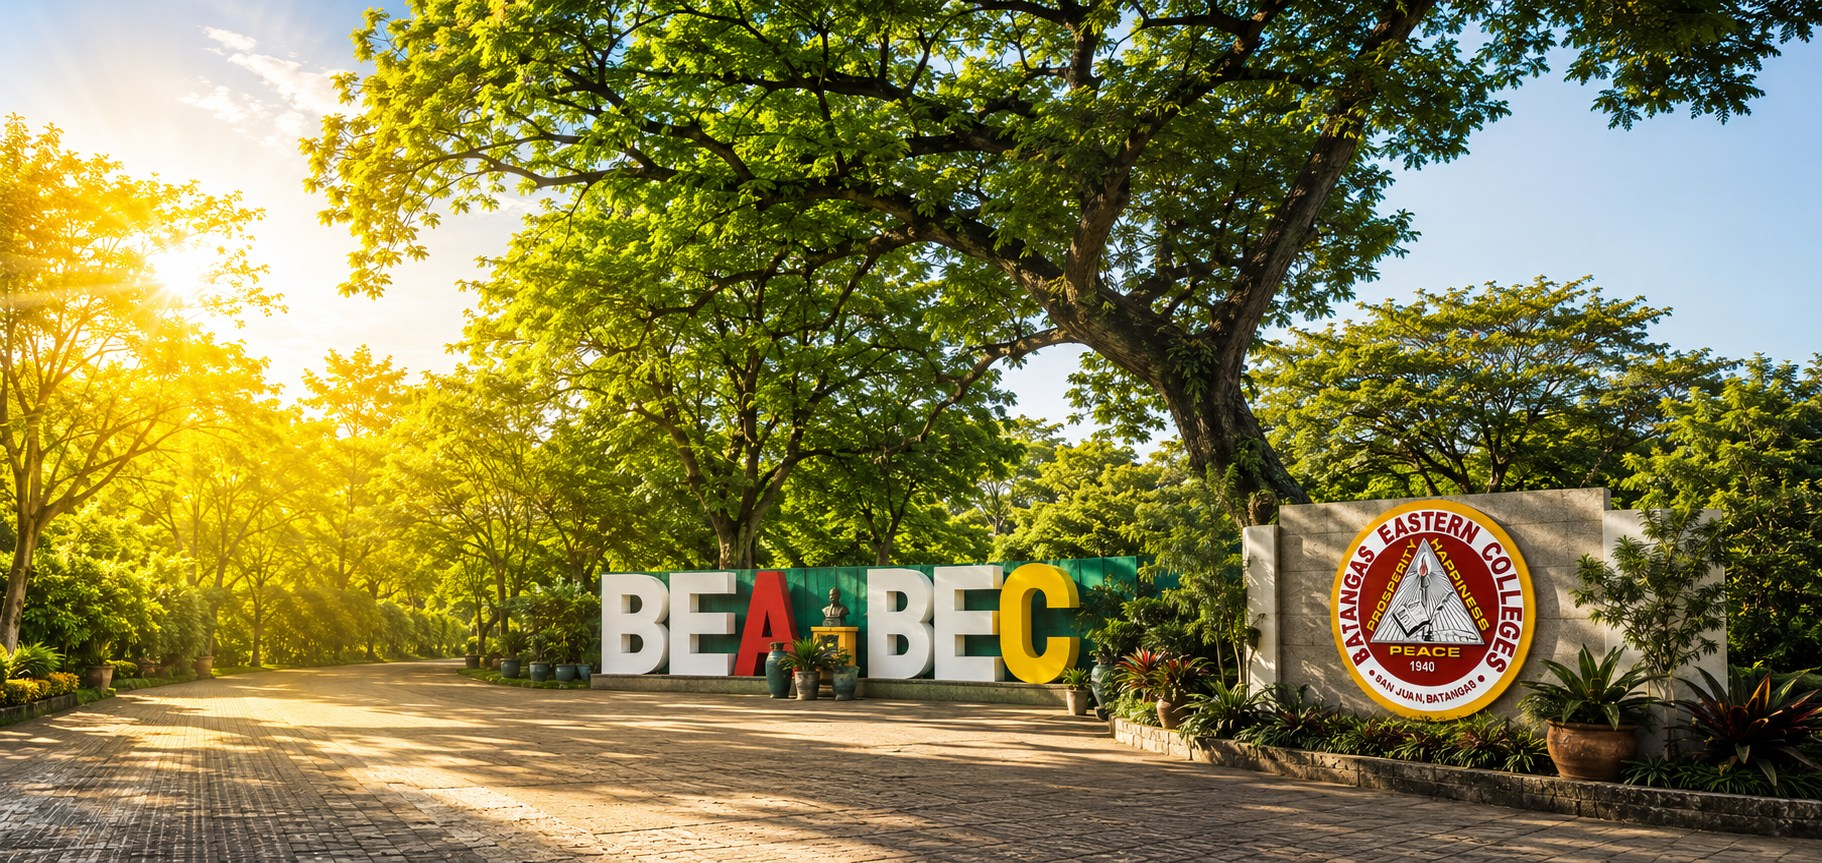
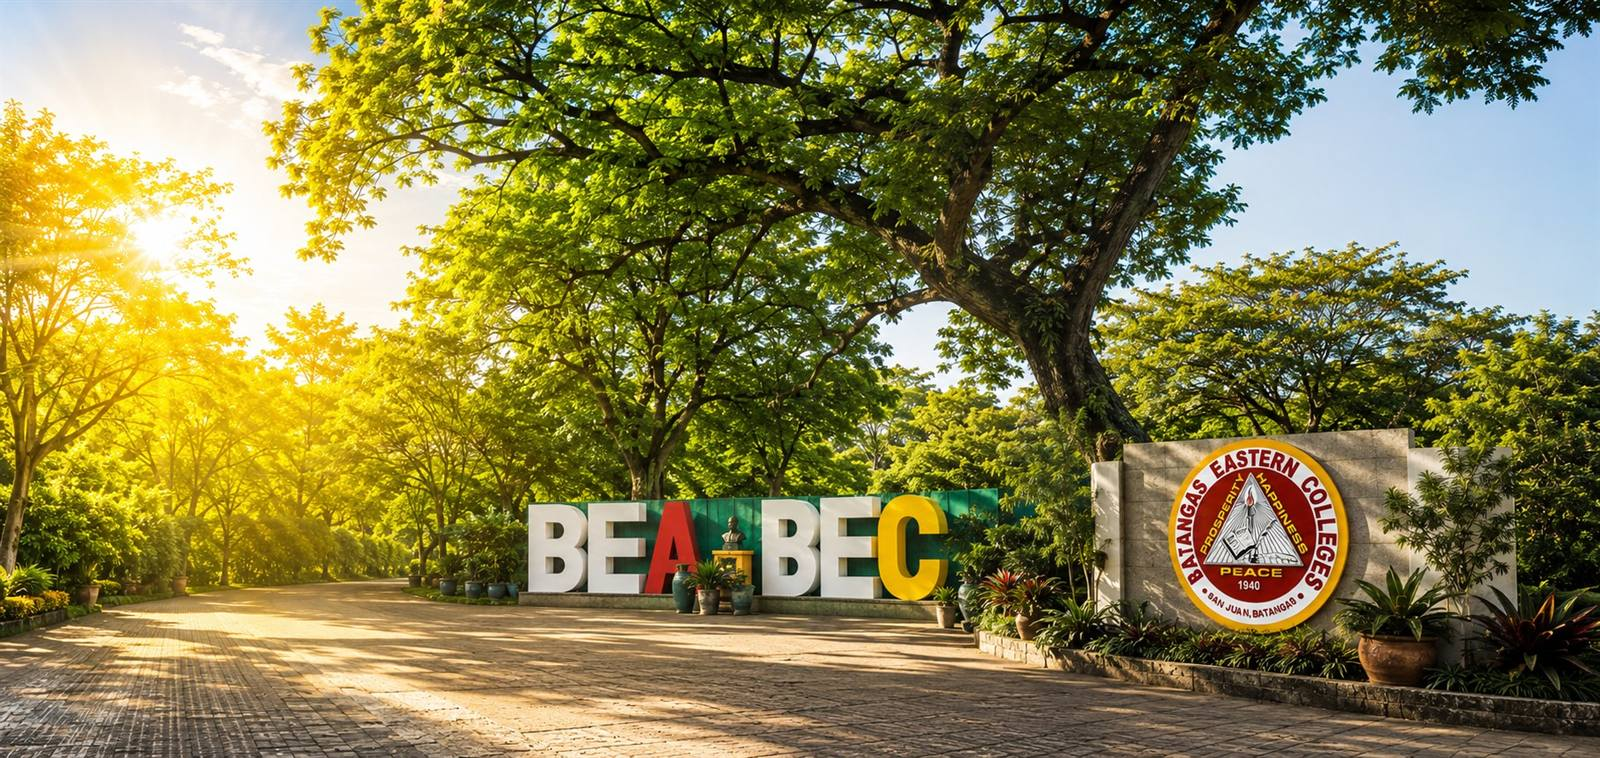
Make the landing page usable on a phone: 5.0 MB down to 1.25 MB
Measured at a 390px viewport, the front door shipped 5,020 KB over 17
requests. Almost all of it was images sent at many times the size they are
ever shown:

  logs.png                 777 KB   750x750   displayed at 38-58px
  the Becca mascot       1,461 KB   864x1248  displayed at 22-40px
  bec background (2).png 1,464 KB   opaque, but stored as a PNG
  Landing Page Background  678 KB   1822x863

Every page of the system carries the seal, so every page was paying 777 KB to
draw a 40px logo. Re-encoded each at the size it is actually used, and the
hero layer — which has no transparency anywhere in it — is now a JPEG.
Originals are kept in assets/_originals/ (gitignored; they are also in git
history). Deleted two heavy assets nothing referenced any more.

Standards the mobile view did not meet, now fixed:

- Tap targets. WCAG 2.5.5 and both platform guidelines ask for 44px; 16 of
  the 27 controls were smaller, some 28px and sitting side by side. Footer
  and nav links get a 44px minimum height, and the chat widget's controls
  keep their looks while their touch area grows to 44px underneath.
- Viewport height. The hero used 90vh, which on a phone measures past the
  collapsing address bar, so it stood taller than the screen and the page
  jolted when the bar hid. dvh where supported, vh as the fallback. Same for
  the chat panel.
- Safe areas. Nothing accounted for the notch or the home indicator; the
  container and footer now use env(safe-area-inset-*).
[…]

diff --git a/index.php b/index.php
@@ -139,12 +139,16 @@ a { text-decoration: none; color: inherit; }
 
 /* ══ HERO ══ */
 .hero { position: relative; display: flex; align-items: center; min-height: min(90vh, 780px); padding: 5rem 0; color: #fff; overflow: hidden; }
+/* On phones 90vh counts the strip under the collapsing address bar, so the hero
+   stands taller than the screen and the page jolts when the bar hides. dvh
+   tracks the space actually visible; browsers without it keep the vh rule. */
+@supports (height: 100dvh) { .hero { min-height: min(90dvh, 780px); } }
 .hero::before { content: ''; position: absolute; inset: 0; z-index: 0;
   background:
     linear-gradient(100deg, rgba(44, 2, 2, 0.9) 0%, rgba(38, 2, 2, 0.82) 32%, rgba(55,9,9,.56) 55%, rgba(74,14,14,.22) 76%, rgba(74,14,14,0) 100%),
     linear-gradient(0deg, rgba(26,4,4,.55) 0%, rgba(26,4,4,0) 28%),
     url('assets/Landing Page Background.jpg') center 42% / cover no-repeat,
-    url('assets/bec background (2).png') center / cover no-repeat;
+    url('assets/bec-background.jpg') center / cover no-repeat;
   transform: scale(1.1) translate3d(0, var(--hero-par, 0px), 0); will-change: transform; }
 .hero .container { position: relative; z-index: 1; }
 .hero-content {
@@ -485,7 +489,7 @@ a { text-decoration: none; color: inherit; }
   .hero::before { background:
     linear-gradient(180deg, rgba(38,4,4,.86) 0%, rgba(45,5,5,.78) 45%, rgba(74,14,14,.9) 100%),
     url('assets/Landing Page Background.jpg') center 40% / cover no-repeat,
-    url('assets/bec background (2).png') center / cover no-repeat; }
+    url('assets/bec-background.jpg') center / cover no-repeat; }
   .hero-content { max-width: 100%; }
   /* calmer type scale on phones — the long headline was overwhelming at 2.15rem */
   .hero h1 { font-size: 1.7rem; line-height: 1.2; max-width: none; }
@@ -495,14 +499,39 @@ a { text-decoration: none; color: inherit; }
   .rep-grid { grid-template-columns: minmax(0,1fr) minmax(0,1fr); gap: .6rem; }
   .rep-card { padding: .75rem .8rem .85rem; border-radius: 12px; min-width: 0; overflow: hidden; }
   .rc-top { margin-bottom: .45rem; gap: .3rem; }
-  .rc-id { font-size: .6rem; white-space: nowrap; overflow: hidden; text-overflow: ellipsis; }
-  .badge { font-size: .54rem; padding: .18rem .45rem; flex-shrink: 0; }
+  /* The ticket number, its status and the date are what a person actually reads
+     here, and they were the smallest type on the page at 9-10px. The number was
+     also being cut off ("BEC-2026-0000…") because it shared a row with the
+     status badge inside a 164px card, so on phones the two now stack and the
+     number gets the full width. The decorative eyebrows and pills stay small
+     by design. */
+  .rc-top { flex-direction: column; align-items: flex-start; gap: .25rem; }
+  .rc-id { font-size: .72rem; white-space: nowrap; overflow: hidden; text-overflow: ellipsis; }
+  .badge { font-size: .62rem; padding: .2rem .45rem; flex-shrink: 0; }
   .rc-eq { font-size: .86rem; margin-bottom: .3rem; }
   .rc-meta { font-size: .68rem; display: block; white-space: nowrap; overflow: hidden; text-overflow: ellipsis; }
-  .rc-date { font-size: .62rem; margin-top: .4rem; }
+  .rc-date { font-size: .72rem; margin-top: .4rem; }
   .sec-title { font-size: 1.35rem; }
   .btn { width: 100%; justify-content: center; padding: .82rem 1.4rem; font-size: .9rem; }
   .hero-cta { flex-direction: column; }
+
+  /* ── touch ergonomics ──────────────────────────────────────────────
+     WCAG 2.5.5 and both platform guidelines put the smallest comfortable
+     touch target at 44px; most links here sat at 20-39px, close enough to
+     each other that a thumb catches the wrong one. The padding is vertical
+     only, so nothing moves visually — the tappable area just grows. */
+  .bsnav-brand,
+  .bsfoot-col a,
+  .bsfoot-contact a,
+  .rep-all a,
+  .faq-a a,
+  a.link-more { min-height: 44px; display: inline-flex; align-items: center; }
+  .bsfoot-social a { min-width: 44px; min-height: 44px; display: inline-flex;
+                     align-items: center; justify-content: center; }
+  /* Room for the iPhone home indicator and the notch in landscape. */
+  .container { padding-left: max(1.1rem, env(safe-area-inset-left));
+               padding-right: max(1.1rem, env(safe-area-inset-right)); }
+  .bsfoot { padding-bottom: max(1.5rem, env(safe-area-inset-bottom)); }
 
   /* ── tighter rhythm = less scrolling on phones (mockups kept) ── */
   .section { padding: 2.3rem 0; }
@@ -713,17 +742,17 @@ a { text-decoration: none; color: inherit; }
       <div class="becca-visual">
         <div class="becca-card">
           <div class="bc-head">
-            <span class="bc-av"><img src="assets/Gemini_Generated_Image_e35zfue35zfue35z.png" alt="Becca"></span>
+            <span class="bc-av"><img src="assets/Gemini_Generated_Image_e35zfue35zfue35z.png" alt="Becca" width="180" height="260" loading="lazy" decoding="async"></span>
             <div><b>Becca</b><small><span class="bc-dot"></span> Online · BEC Support AI</small></div>
           </div>
           <div class="bc-body">
             <div class="bc-msg u">How do I report a broken projector?</div>
             <div class="bc-row">
-              <span class="bc-mav"><img src="assets/Gemini_Generated_Image_e35zfue35zfue35z.png" alt=""></span>
+              <span class="bc-mav"><img src="assets/Gemini_Generated_Image_e35zfue35zfue35z.png" alt="" width="180" height="260" loading="lazy" decoding="async"></span>
               <div class="bc-msg b">Sign in on the report page, choose the equipment and room, attach a photo, and set the priority. You'll get an email as soon as the PMO reviews it. 👍</div>
             </div>
             <div class="bc-row">
-              <span class="bc-mav"><img src="assets/Gemini_Generated_Image_e35zfue35zfue35z.png" alt=""></span>
+              <span class="bc-mav"><img src="assets/Gemini_Generated_Image_e35zfue35zfue35z.png" alt="" width="180" height="260" loading="lazy" decoding="async"></span>
               <div class="bc-typing"><span></span><span></span><span></span></div>
             </div>
           </div>

diff --git a/includes/becca_widget.php b/includes/becca_widget.php
@@ -61,7 +61,9 @@
 #chatOverlay.open { opacity: 1; pointer-events: all; }
 #chatModal {
   width: 100%; max-width: 385px;
-  height: 570px; max-height: calc(100vh - 2.5rem);
+  /* vh on a phone measures past the collapsing address bar, so the panel ran
+     off the bottom of the screen; dvh follows what is actually visible. */
+  height: 570px; max-height: calc(100vh - 2.5rem); max-height: calc(100dvh - 2.5rem);
   background: rgba(255,255,255,.85);
   -webkit-backdrop-filter: blur(22px) saturate(1.2); backdrop-filter: blur(22px) saturate(1.2);
   border-radius: 22px;
@@ -106,6 +108,18 @@
   color: rgba(255,255,255,.65); font-size: .72rem; transition: background .14s, color .14s;
 }
 .ch-btn:hover { background: rgba(255,255,255,.2); color: #fff; }
+/* The header controls and language toggles were 28-30px on a phone — under the
+   44px that WCAG 2.5.5 and both platform guidelines ask for, and sitting close
+   together in a corner. The button keeps its look; the touch area around it
+   grows to 44px through a transparent pseudo-element. */
+@media (pointer: coarse), (max-width: 640px) {
+  .ch-btn, .lbtn, .sbtn { position: relative; }
+  .ch-btn::after, .lbtn::after, .sbtn::after {
+    content: ''; position: absolute; top: 50%; left: 50%;
+    transform: translate(-50%, -50%);
+    min-width: 44px; min-height: 44px; width: 100%; height: 100%;
+  }
+}
 .lbar {
   padding: .48rem .88rem; border-bottom: 1px solid var(--border);
   display: flex; align-items: center; gap: .5rem; flex-shrink: 0;

diff --git a/admin/reset_password.php b/admin/reset_password.php
@@ -17,7 +17,7 @@ $hasToken = $token !== '';
   :root{--maroon:#7B1D1D;--maroon-d:#4A0E0E;--gold:#C9960C;--ink:#1C1008;--ink2:#5C3838;--ink3:#755B4E;--surface:#FFFFFF;--border:#E2D9CC;--field:#FBF9F6;--danger:#B42318;--success:#1A7A33;}
   *{margin:0;padding:0;box-sizing:border-box;}
   body{font-family:'DM Sans',system-ui,sans-serif;color:var(--ink);background:var(--maroon-d);min-height:100vh;display:flex;align-items:center;justify-content:center;padding:24px;position:relative;}
-  body::before{content:'';position:fixed;inset:0;z-index:-2;background:url('../assets/bec background (2).png') center/cover no-repeat;filter:blur(5px) brightness(.9);transform:scale(1.06);}
+  body::before{content:'';position:fixed;inset:0;z-index:-2;background:url('../assets/bec-background.jpg') center/cover no-repeat;filter:blur(5px) brightness(.9);transform:scale(1.06);}
   body::after{content:'';position:fixed;inset:0;z-index:-1;background:linear-gradient(135deg,rgba(45,5,5,.60),rgba(74,14,14,.45));}
   a{color:var(--maroon);text-decoration:none;} a:hover{text-decoration:underline;}
   .auth-card{width:100%;max-width:430px;background:var(--surface);border:1px solid var(--border);border-radius:12px;box-shadow:0 10px 28px rgba(44,10,10,.18);overflow:hidden;}

diff --git a/technician/reset_password.php b/technician/reset_password.php
@@ -17,7 +17,7 @@ $hasToken = $token !== '';
   :root{--maroon:#7B1D1D;--maroon-d:#4A0E0E;--gold:#C9960C;--ink:#1C1008;--ink2:#5C3838;--ink3:#755B4E;--surface:#FFFFFF;--border:#E2D9CC;--field:#FBF9F6;--danger:#B42318;--success:#1A7A33;}
   *{margin:0;padding:0;box-sizing:border-box;}
   body{font-family:'DM Sans',system-ui,sans-serif;color:var(--ink);background:var(--maroon-d);min-height:100vh;display:flex;align-items:center;justify-content:center;padding:24px;position:relative;}
-  body::before{content:'';position:fixed;inset:0;z-index:-2;background:url('../assets/bec background (2).png') center/cover no-repeat;filter:blur(5px) brightness(.9);transform:scale(1.06);}
+  body::before{content:'';position:fixed;inset:0;z-index:-2;background:url('../assets/bec-background.jpg') center/cover no-repeat;filter:blur(5px) brightness(.9);transform:scale(1.06);}
   body::after{content:'';position:fixed;inset:0;z-index:-1;background:linear-gradient(135deg,rgba(45,5,5,.60),rgba(74,14,14,.45));}
   a{color:var(--maroon);text-decoration:none;} a:hover{text-decoration:underline;}
   .auth-card{width:100%;max-width:430px;background:var(--surface);border:1px solid var(--border);border-radius:12px;box-shadow:0 10px 28px rgba(44,10,10,.18);overflow:hidden;}

diff --git a/includes/site_nav.php b/includes/site_nav.php
@@ -58,7 +58,7 @@ if (!isset($nav_active)) { $nav_active = ''; }
 <nav class="bsnav">
   <div class="bsnav-in">
     <a class="bsnav-brand" href="index.php">
-      <span class="bsnav-seal"><img src="assets/logs.png" alt="BEC logo" onerror="this.style.display='none';this.parentElement.innerHTML='<i class=\'fas fa-graduation-cap\' style=\'color:#7B1D1D\'></i>'"></span>
+      <span class="bsnav-seal"><img src="assets/logs.png" alt="BEC logo" width="192" height="192" decoding="async" onerror="this.style.display='none';this.parentElement.innerHTML='<i class=\'fas fa-graduation-cap\' style=\'color:#7B1D1D\'></i>'"></span>
       <span><b>BEC PMO</b><small>Property Management Office</small></span>
     </a>
     <div class="bsnav-links" id="bsnavLinks">

diff --git a/includes/site_hero.php b/includes/site_hero.php
@@ -13,7 +13,7 @@ $__he = isset($hero_eyebrow) ? $hero_eyebrow : 'Property Management Office';
 .sbhero::before{content:'';position:absolute;inset:0;z-index:0;
   background:linear-gradient(180deg,rgba(44,10,10,.60),rgba(74,14,14,.85)),
     url('assets/Landing Page Background.jpg') center 42%/cover no-repeat,
-    url('assets/bec background (2).png') center/cover no-repeat;
+    url('assets/bec-background.jpg') center/cover no-repeat;
   transform:scale(1.03);}
 .sbhero-in{position:relative;z-index:1;max-width:820px;margin:0 auto;}
 .sbhero-eyebrow{display:inline-flex;align-items:center;gap:.45rem;font-size:.62rem;font-weight:800;text-transform:uppercase;letter-spacing:1.6px;color:#F0C040;margin-bottom:.6rem;}

diff --git a/includes/site_footer.php b/includes/site_footer.php
@@ -43,7 +43,7 @@ $bsfYear = date('Y');
     <div class="bsfoot-cols">
       <div class="bsfoot-col">
         <div class="bsfoot-brand">
-          <span class="bsfoot-seal"><img src="assets/logs.png" alt="BEC logo"></span>
+          <span class="bsfoot-seal"><img src="assets/logs.png" alt="BEC logo" width="192" height="192" loading="lazy" decoding="async"></span>
           <span><b>BEC PMO</b><br><small>Defective Equipment Reporting System</small></span>
         </div>
         <p class="bsfoot-motto">&ldquo;Beacons of Education, Molders of Educators.&rdquo;

diff --git a/student_index.php b/student_index.php
@@ -130,7 +130,7 @@ body::after {
     radial-gradient(120% 80% at 0% 0%, rgba(201,150,12,.20) 0%, transparent 42%),
     linear-gradient(155deg, rgba(45,5,5,.90) 0%, rgba(74,14,14,.80) 55%, rgba(123,29,29,.72) 100%),
     url('assets/Landing Page Background.jpg') center / cover no-repeat,
-    url('assets/bec background (2).png') center / cover no-repeat;
+    url('assets/bec-background.jpg') center / cover no-repeat;
   display: flex; flex-direction: column;
 }
 .brand::after {
